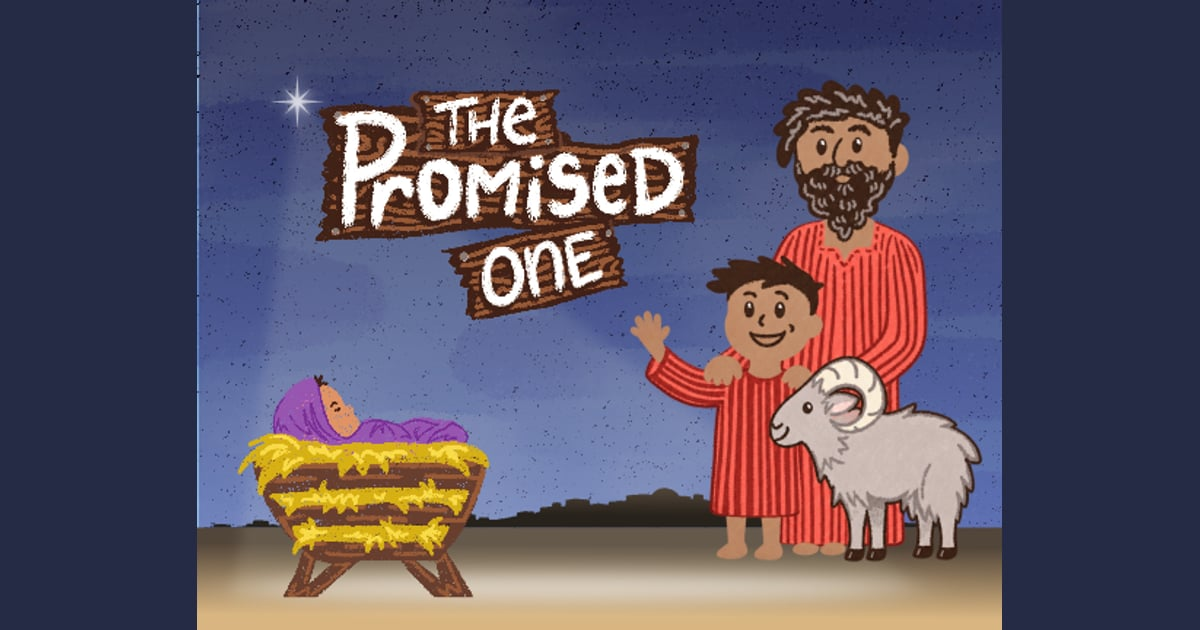
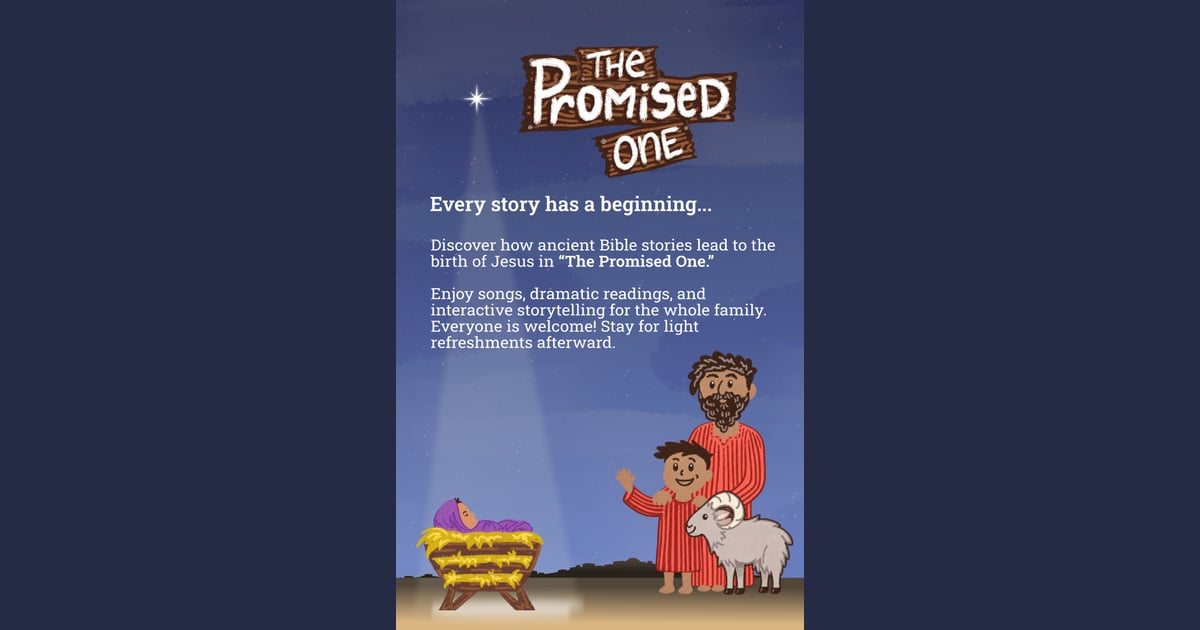
Replace two artwork panels with common panel and reposition floating title

diff --git a/index.html b/index.html
@@ -34,12 +34,8 @@
 
     <div class="artwork-stage">
       <section class="hero" aria-labelledby="hero-title">
-        <img src="assets/hero.webp" width="552" height="432" fetchpriority="high" alt="The Promised One: a Christmas illustration of baby Jesus in a manger, a shepherd, a child, and a sheep beneath a star.">
+        <img src="assets/hero.webp" width="768" height="1187" fetchpriority="high" alt="The Promised One. Every story has a beginning. Discover how ancient Bible stories lead to the birth of Jesus. Enjoy songs, dramatic readings, and interactive storytelling for the whole family. Everyone is welcome! Stay for light refreshments afterward. Illustration of baby Jesus in a manger, a shepherd, a child, and a sheep beneath a star.">
         <h2 id="hero-title">A Narrative Christmas Experience</h2>
-      </section>
-
-      <section class="subhero" aria-label="About The Promised One">
-        <img src="assets/subhero.webp" width="552" height="432" loading="lazy" alt="Every story has a beginning. Discover how ancient Bible stories lead to the birth of Jesus in The Promised One. Enjoy songs, dramatic readings, and interactive storytelling for the whole family. Everyone is welcome! Stay for light refreshments afterward.">
       </section>
     </div>
 

diff --git a/styles.css b/styles.css
@@ -34,11 +34,9 @@ h3 { font-size: 1.05rem; line-height: 1.4; }
 .artwork-stage { background: var(--night); }
 .hero { position: relative; container-type: inline-size; max-width: 840px; margin: auto; background: var(--night); }
 .hero img { display: block; width: 100%; height: auto; }
-.hero h2 { position: absolute; left: 36%; top: 55%; width: 24%; color: #fffaf1; text-align: center; font-size: clamp(.9rem, 3.2cqw, 1.8rem); line-height: 1.18; text-shadow: 0 2px 4px #171e39, 0 0 12px #171e39; }
+.hero h2 { position: absolute; left: 17%; top: 61%; width: 32%; color: #fffaf1; text-align: center; font-size: clamp(.9rem, 3.2cqw, 1.8rem); line-height: 1.18; text-shadow: 0 2px 4px #171e39, 0 0 12px #171e39; }
 .schedule-overview { padding: 16px 16px 10px; text-align: center; background: var(--night); color: var(--paper); }
 .locations { display: inline-block; padding: 7px 15px; border: 1px solid #8e8691; border-radius: 30px; color: var(--gold); font-size: .85rem; }
-.subhero { max-width: 840px; margin: auto; background: #505e94; }
-.subhero img { display: block; width: 100%; height: auto; }
 .invitation-layout { padding: 25px 16px 0; }
 .section-intro { margin-top: 12px; }
 .timezone, .duration-note { color: var(--muted); font-size: .8rem; }
